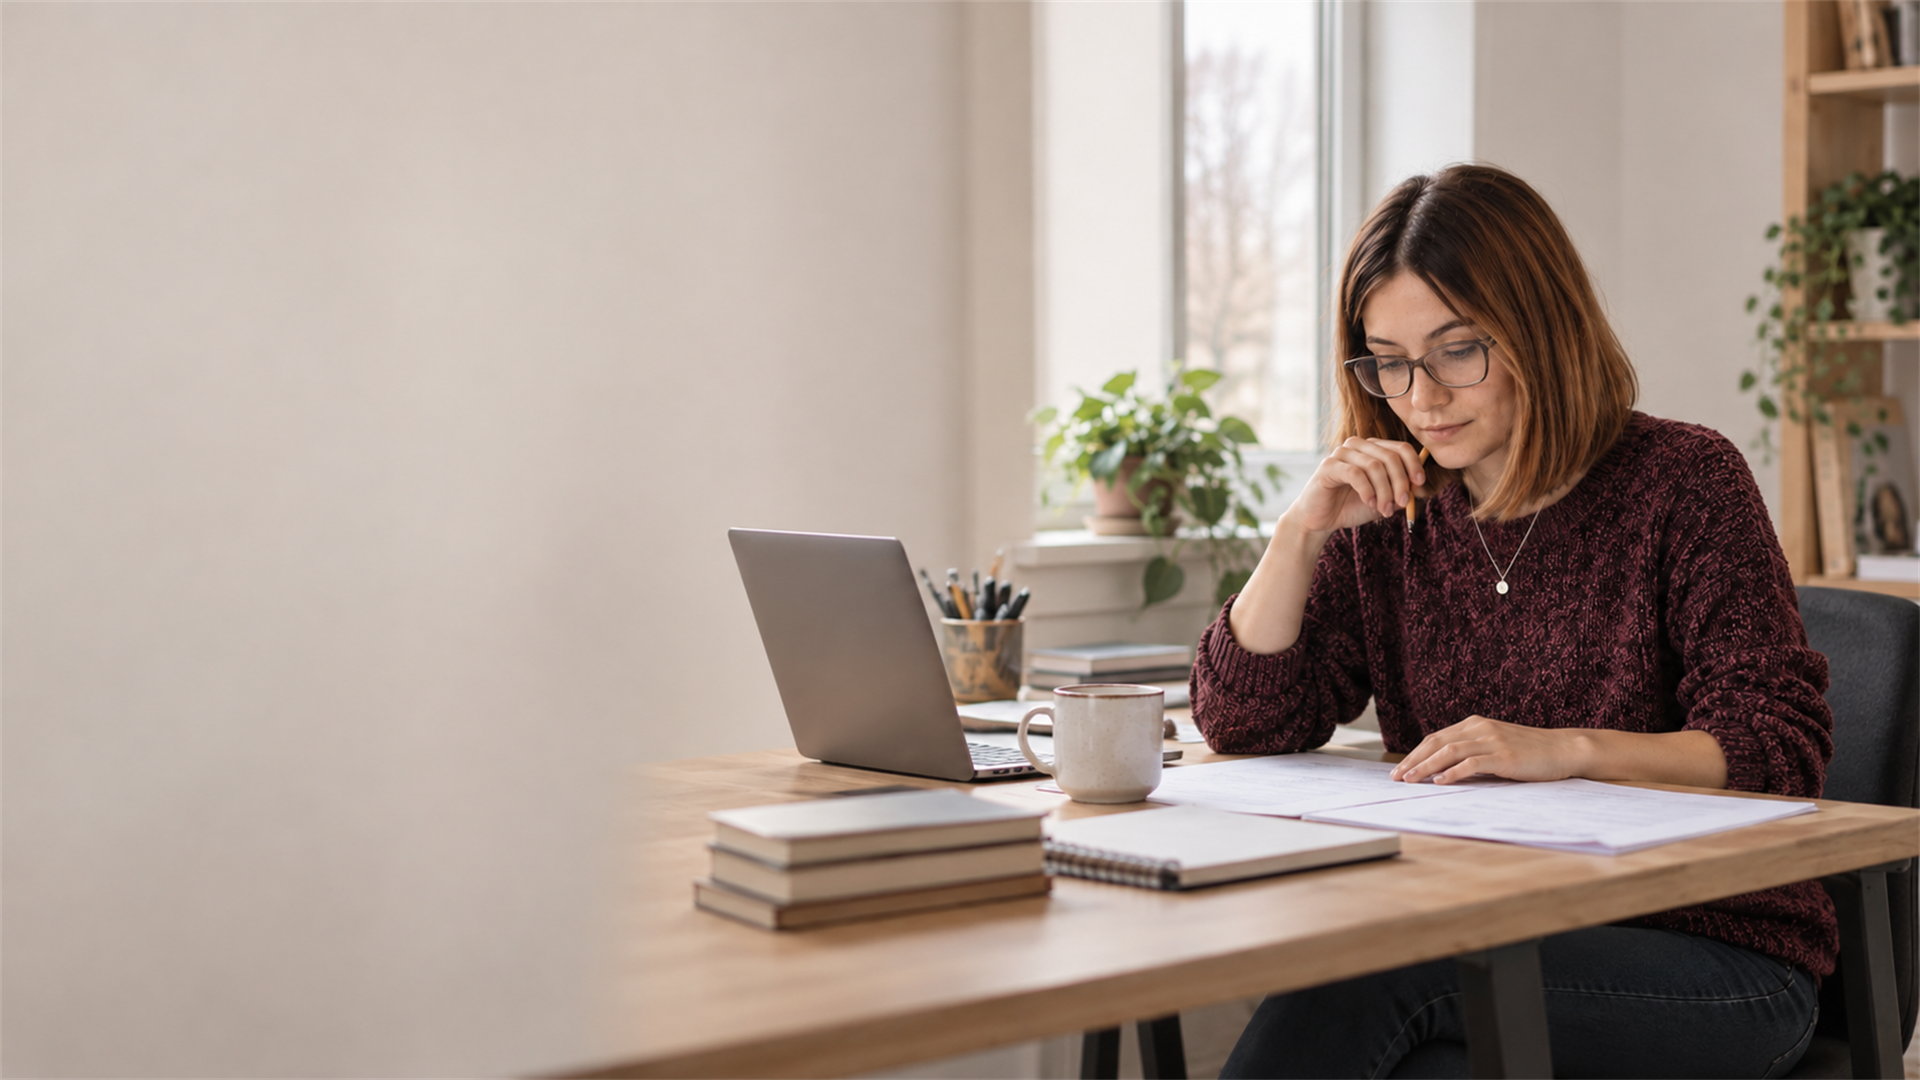
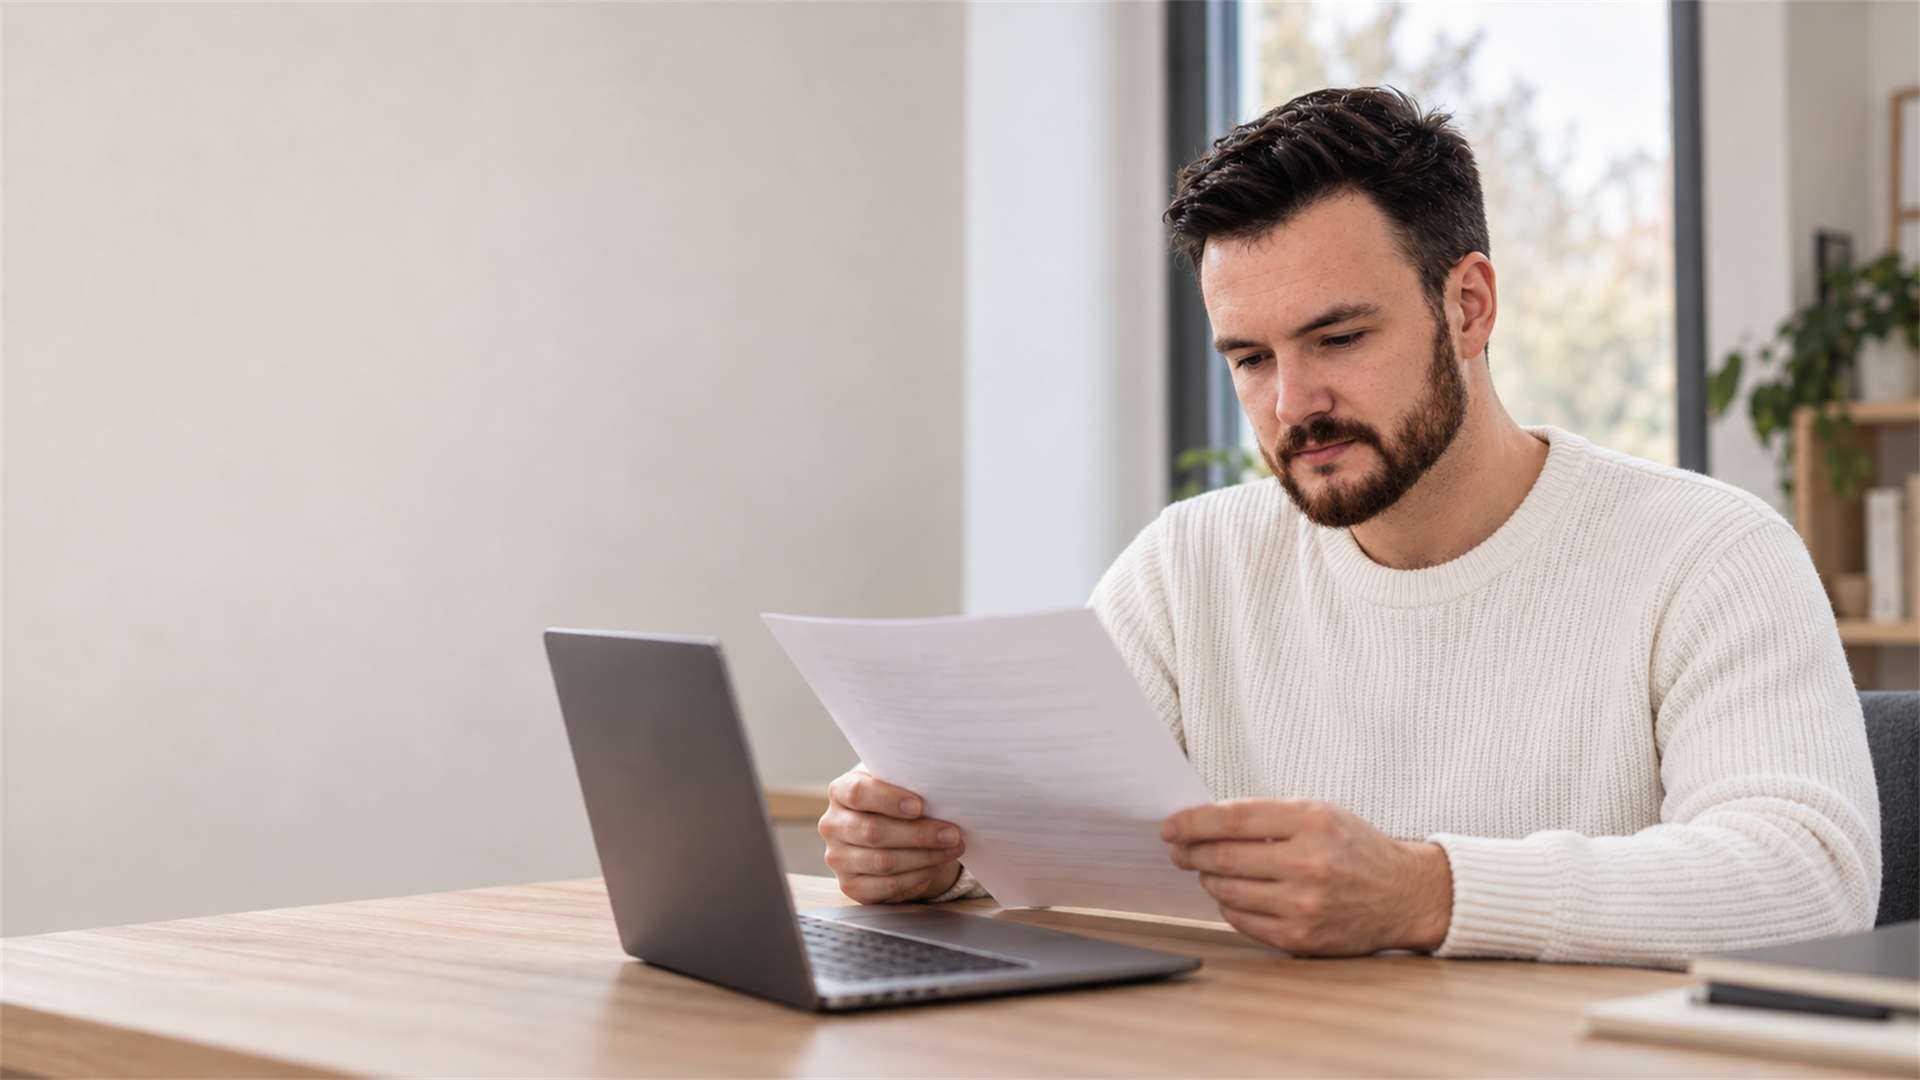
Update GEO hero photo from Figma

diff --git a/docs/geo-page.md b/docs/geo-page.md
@@ -11,7 +11,7 @@
 
 | Файл | Секция | Слой Figma |
 | --- | --- | --- |
-| hero.png | Первый экран | Frame174 |
+| hero.png | Первый экран | Frame175 — обновлённый портрет из 772:11689 |
 | benefits.png | Когда нужно GEO | Frame183 |
 | research.png | Исследование | Frame178 |
 | included.png | Состав работ | Rectangle4035 |
